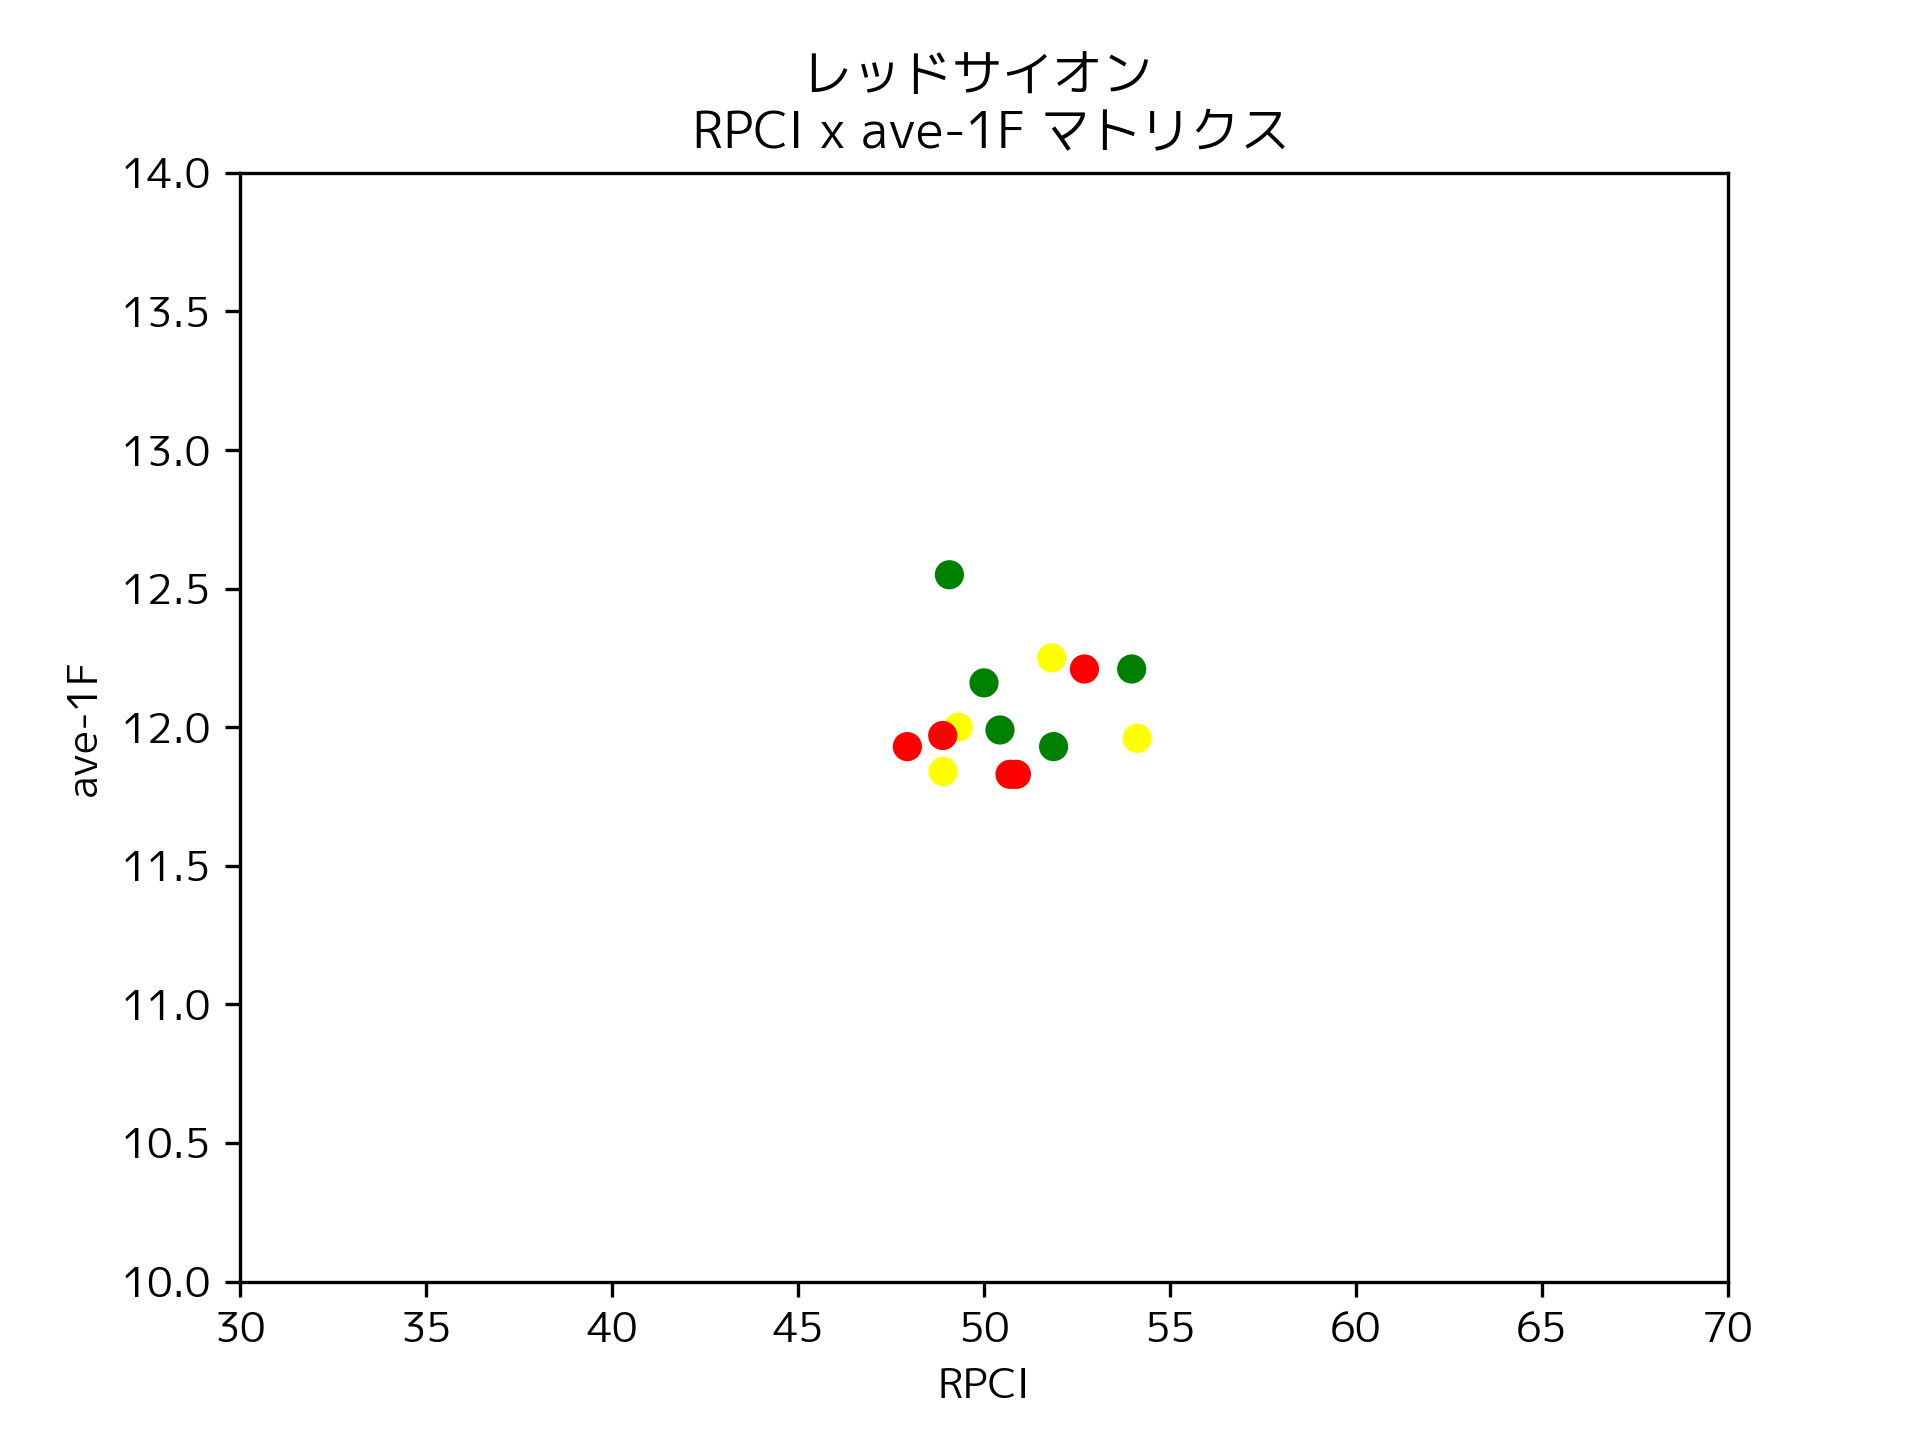
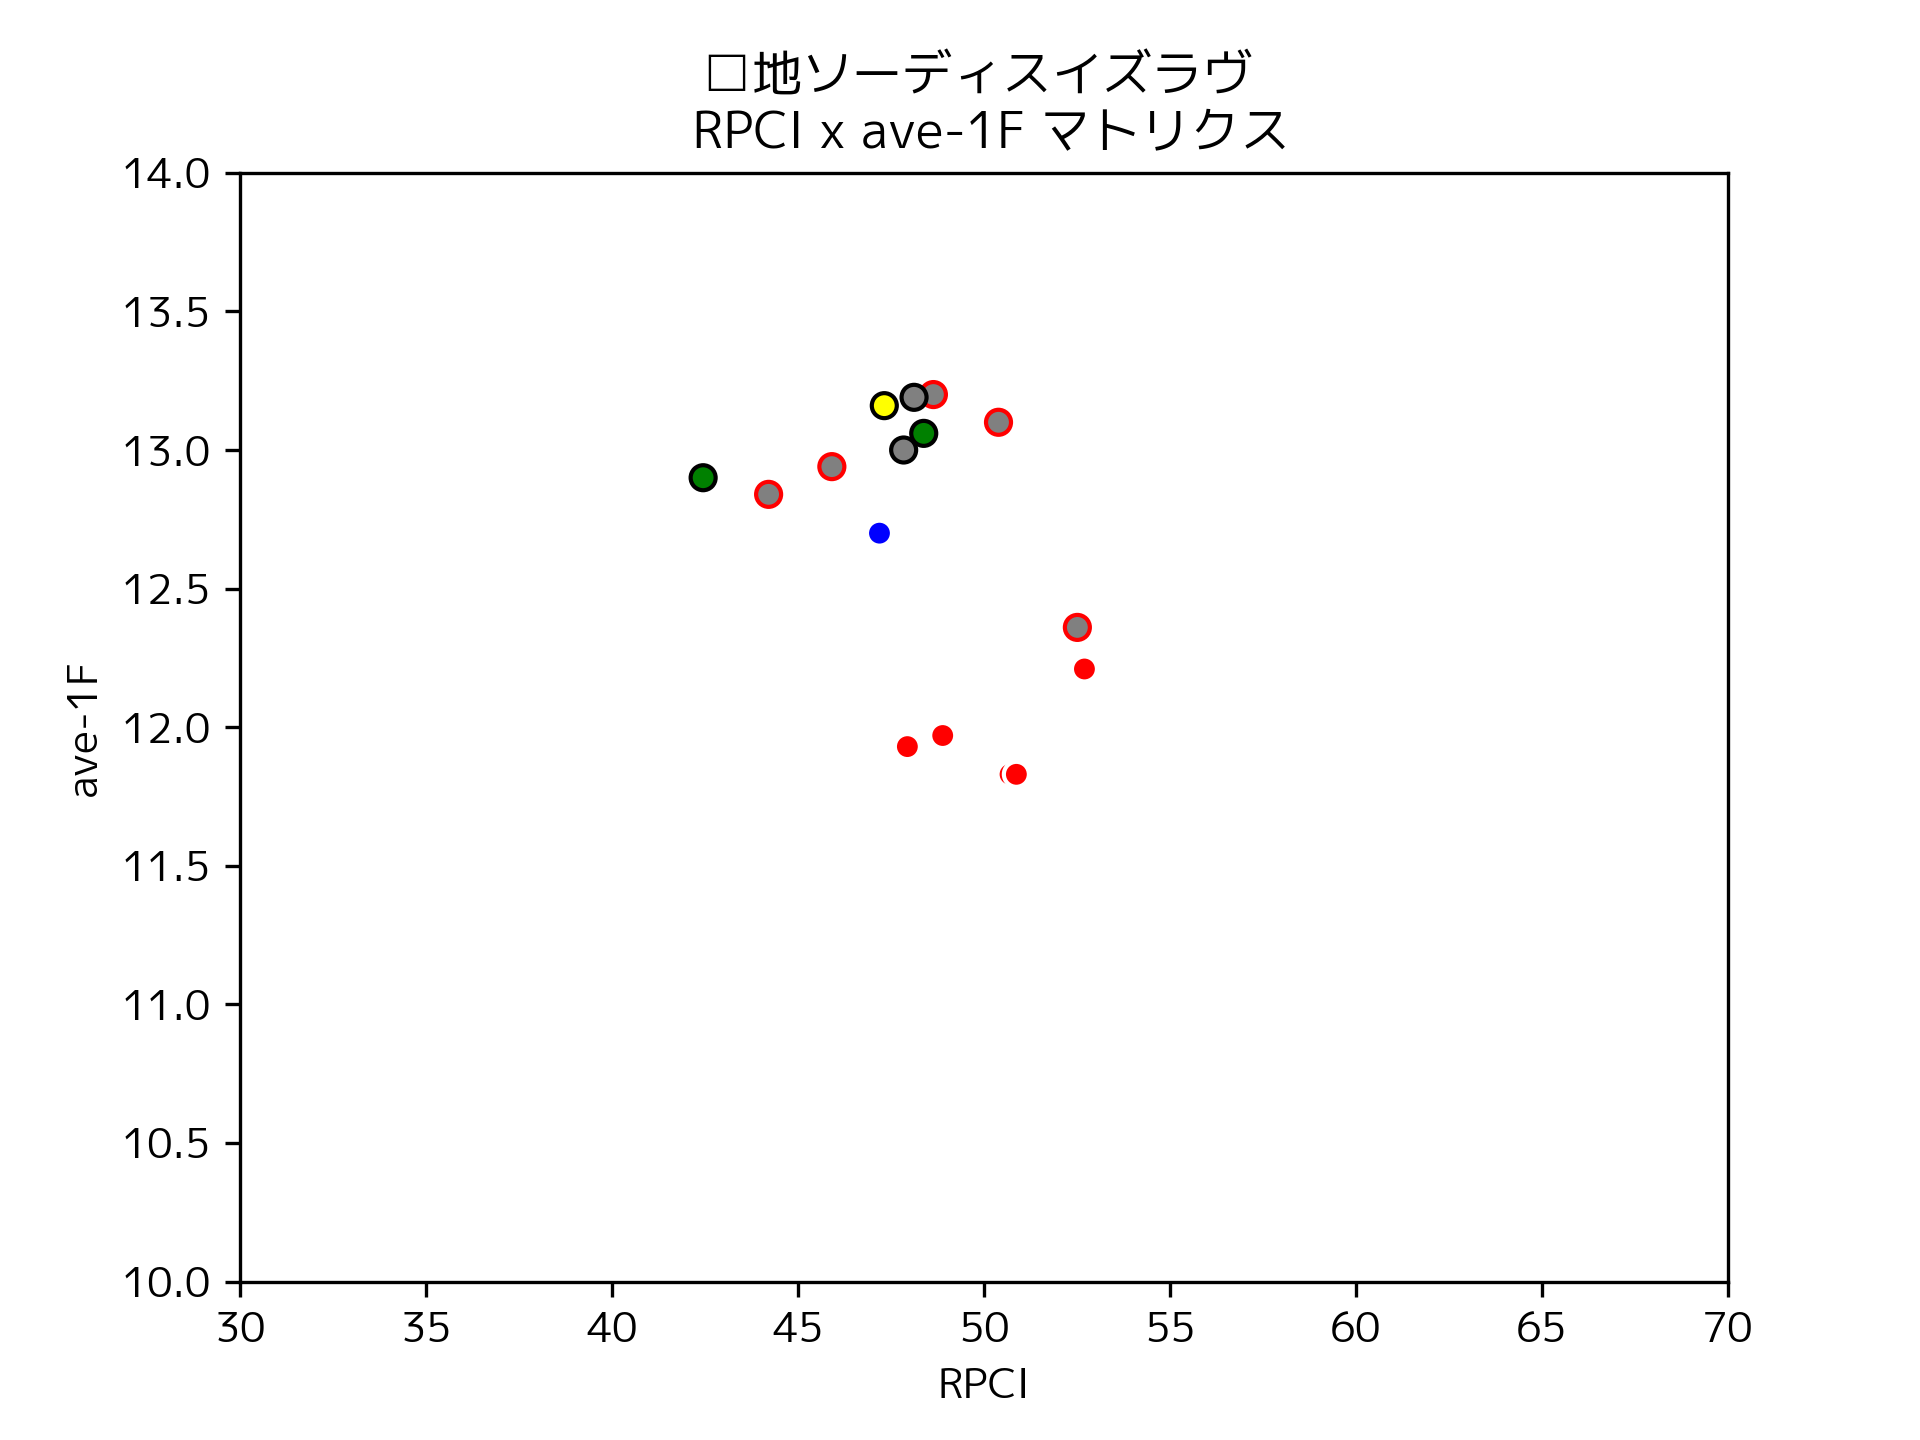
add edgecolor

diff --git a/analytics/make_rap_and_RPCI_plot_from_hose.py b/analytics/make_rap_and_RPCI_plot_from_hose.py
@@ -1,4 +1,4 @@
-from sqlalchemy import create_engine
+from sqlalchemy import create_engine, desc
 from sqlalchemy.orm import sessionmaker
 from sqlalchemy.orm.exc import NoResultFound
 from model.raceResult import RaceResult
@@ -29,7 +29,7 @@ def main():
     session = Session()
 
     # HoseRaceResult データの取得
-    hoseRaceResults = getHoseRaceResult(session, '2016104672')
+    hoseRaceResults = getHoseRaceResult(session, '2014104623')
 
     # RaceResult　データの取得
     raceResults = getRaceResult(session, '巴賞')
@@ -46,7 +46,8 @@ def getHoseRaceResult(session, hose_id):
     hoseRaceResults = session.query(Hose, HoseRaceResult, RaceResult)\
         .filter(Hose.hose_id == hose_id)\
             .filter(Hose.hose_id == HoseRaceResult.hose_id)\
-                .filter(HoseRaceResult.race_id == RaceResult.id)
+                .filter(HoseRaceResult.race_id == RaceResult.id)\
+                    .order_by(desc(RaceResult.date))
 
     return hoseRaceResults
 
@@ -61,7 +62,9 @@ def getRaceResult(session,
 
     # レース名検索
     if raceName != None: 
-        raceResults = session.query(RaceResult).filter(RaceResult.name.like(f'%{raceName}%'))
+        raceResults = session.query(RaceResult)\
+            .filter(RaceResult.name.like(f'%{raceName}%'))\
+                .order_by(RaceResult.date)
 
     """
         以下条件でレースを検索
@@ -75,7 +78,8 @@ def getRaceResult(session,
             .filter(RaceResult.cource_id == cource_id)\
                 .filter(RaceResult.cource_length == cource_length)\
                     .filter(RaceResult.cource_condition == cource_condition)\
-                        .filter(RaceResult.prize == prize)
+                        .filter(RaceResult.prize == prize)\
+                            .order_by(desc(RaceResult.date))
     
     """
         以下条件でレースを検索
@@ -90,7 +94,8 @@ def getRaceResult(session,
                 .filter(RaceResult.cource_length == cource_length)\
                     .filter(RaceResult.cource_condition == cource_condition)\
                         .filter(RaceResult.prize >= prize_min)\
-                            .filter(RaceResult.prize <= prize_max)
+                            .filter(RaceResult.prize <= prize_max)\
+                                .order_by(desc(RaceResult.date))
 
     return raceResults
 
@@ -115,6 +120,8 @@ def dataPlot(hoseRaceResults, raceResults=None):
     """
 
     colorTbl = []
+    edgeColorTbl = []
+    count = 0
     for index, hoseRaceResult in enumerate(hoseRaceResults):
         try:
             if hoseRaceResult.HoseRaceResult.rank == '1':
@@ -125,6 +132,18 @@ def dataPlot(hoseRaceResults, raceResults=None):
                 colorTbl.append('blue')
             else:
                 colorTbl.append('gray')
+            
+            # 近5走までは散布図の縁を赤色
+            # 近10走までは散布図の縁をオレンジ色にする。
+            if count < 5:
+                edgeColorTbl.append('red')
+            elif count < 10:
+                edgeColorTbl.append('black')
+            else:
+                edgeColorTbl.append('white')
+            
+            count += 1
+
         except ValueError as e:
             print(f'race_id: {hoseRaceResult.HoseRaceResult.race_id} 競争除外レースのため結果から外します。')
             # グラフから競争除外のレースのプロットを除外
@@ -140,13 +159,14 @@ def dataPlot(hoseRaceResults, raceResults=None):
             y.append(raceResult.ave_1F)
             names.append(f'{raceResult.date} {raceResult.name} {raceResult.cource_condition}')
             colorTbl.append("red")
+            edgeColorTbl.append('white')
     
         # 中央値を求めてプロットする
         x_median = np.median([ raceResult.RPCI for raceResult in raceResults ])
         y_median = np.median([ raceResult.ave_1F for raceResult in raceResults ] )
 
     fig,ax = plt.subplots()
-    sc = plt.scatter(x, y, c=colorTbl)
+    sc = plt.scatter(x, y, c=colorTbl, linewidth=1, edgecolors=edgeColorTbl)
 
     # プロットにホバーした時、凡例を表示させる
     annot = ax.annotate("", xy=(0,0), xytext=(20,20),textcoords="offset points",

diff --git a/analytics/model/raceResult.py b/analytics/model/raceResult.py
@@ -1,5 +1,5 @@
 from sqlalchemy.ext.declarative import declarative_base
-from sqlalchemy import create_engine, Column, Integer, String, Float
+from sqlalchemy import create_engine, Column, Integer, String, Float, Date
 
 Base = declarative_base()
 
@@ -11,7 +11,7 @@ class RaceResult(Base):
     name = Column(String(200))
     cource_id = Column(String(3))
     cource_length = Column(String(5))
-    date = Column(String(11))
+    date = Column(Date)
     cource_type = Column(String(5))
     cource_condition = Column(String(10))
     entire_rap = Column(String(200))
